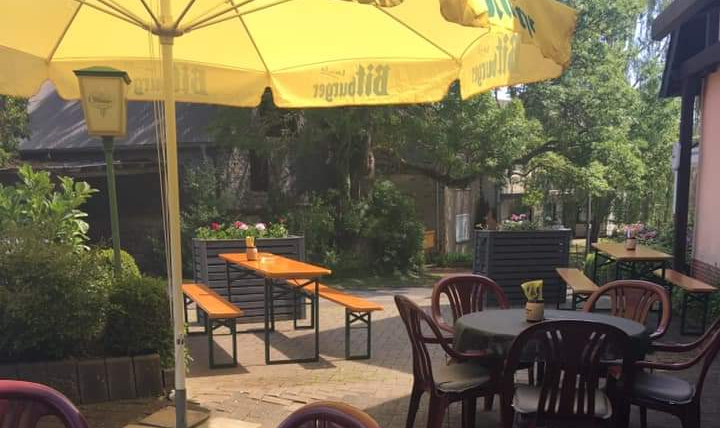
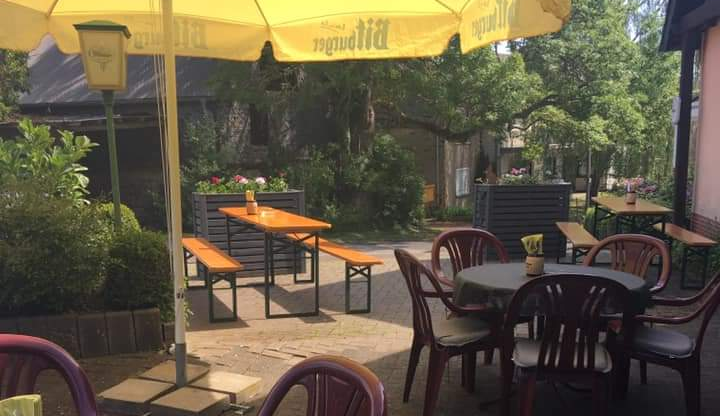
cleaned site

diff --git a/src/App.js b/src/App.js
@@ -96,7 +96,7 @@ function App() {
         
       </div>
       <Parallax
-        bgImage={process.env.PUBLIC_URL + "/img/Biergarten3.png"}
+        bgImage={process.env.PUBLIC_URL + "/img/Biergarten1.png"}
         strength={200}
         renderLayer={(precentage) => (
           <div
